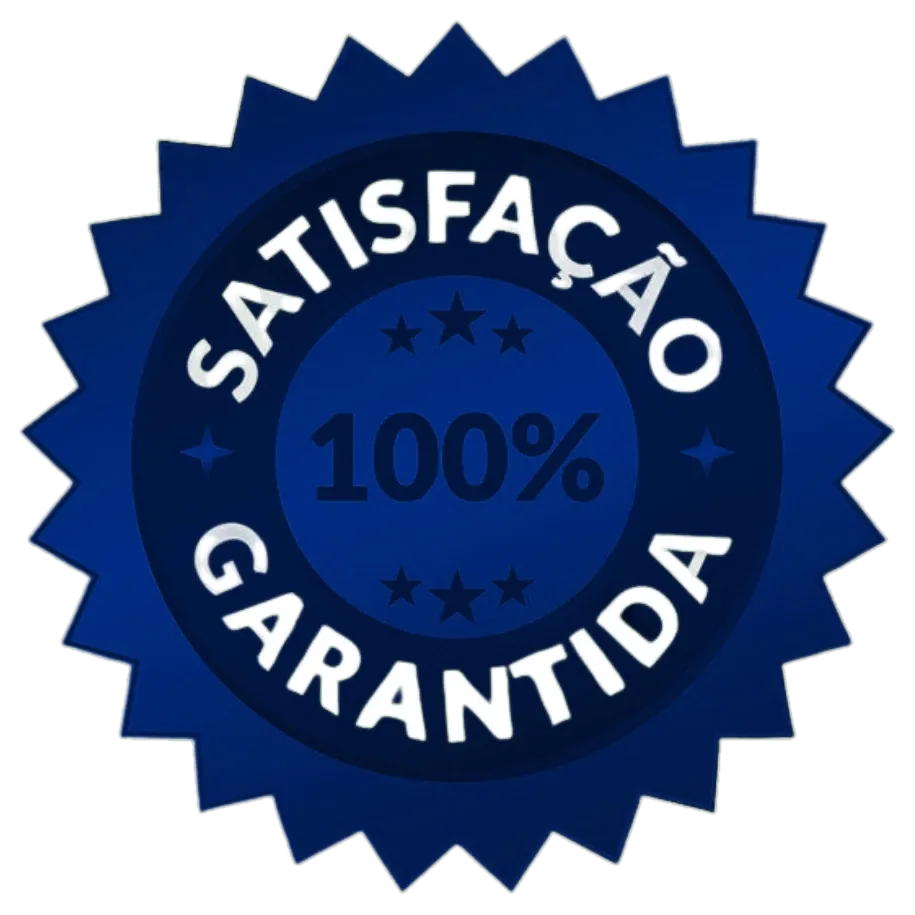
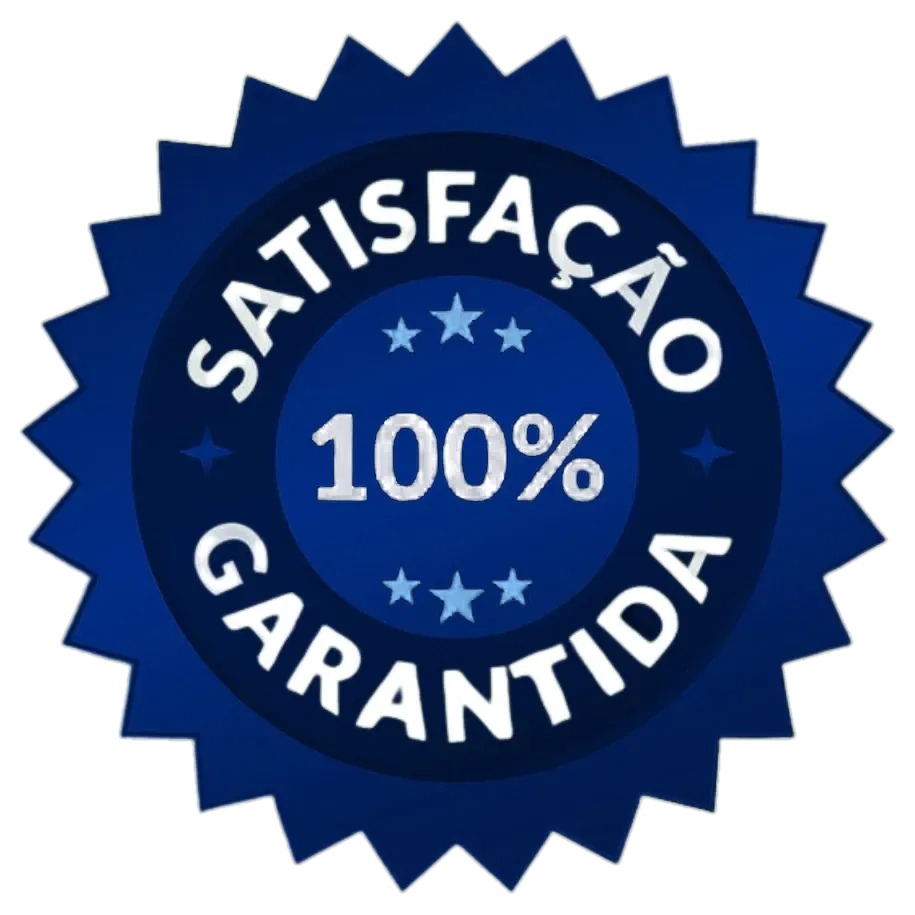
Corrige selo, borda de Ingredientes no desktop, eyebrow azul/branco por fundo, badge do hero
- Selo "Satisfação 100% Garantida": "100%" agora branco e as estrelinhas
  em azul claro, recolorido só dentro do disco interno (restrito por
  raio + posição, sem vazar para o anel com "SATISFAÇÃO"/"GARANTIDA").
  Corrige tentativa anterior que tinha vazado faixas retas pro anel.
- ingredientes-bg.png (versão desktop, restaurada ao tamanho original
  2048x676): tinha a mesma borda quase-branca de ~5px nas laterais e
  no topo que já tinha sido cortada da versão mobile — cortada agora
  também, resolvendo a marcação branca no canto esquerdo. Adicionado
  ?v=2 na URL pra evitar cache do navegador.
- .eyebrow (nome da seção + traço "::before"): fica azul escuro
  (--color-green-800) em seções de fundo branco/bege; branco nas
  seções de fundo azul (#produtos, .ingredients, .testimonials,
  .cta-final) — inclui o traço, que antes nunca tinha cor por seção.
  Removido o style inline do eyebrow do CTA final em favor da regra
  de classe.
- .hero__eyebrow (badge "Indústria Brasileira · Nutrição Premium"):
  texto cinza -> azul da barra clara do menu (--color-green-600).

Changed region(s): [[0.3366, 0.4284, 0.6732, 0.5508], [0.4284, 0.612, 0.5814, 0.6732], [0.4284, 0.306, 0.5814, 0.3978]]

diff --git a/css/style.css b/css/style.css
@@ -82,7 +82,7 @@ h4 {
   font-weight: 700;
   letter-spacing: 0.14em;
   text-transform: uppercase;
-  color: #545454;
+  color: var(--color-green-800);
   margin-bottom: var(--space-sm);
 }
 
@@ -90,7 +90,7 @@ h4 {
   content: "";
   width: 22px;
   height: 2px;
-  background: var(--color-orange-500);
+  background: var(--color-green-800);
   border-radius: var(--radius-pill);
 }
 
@@ -431,7 +431,7 @@ h4 {
   padding: 0.4rem 0.9rem 0.4rem 0.4rem;
   font-size: var(--fs-xs);
   font-weight: 700;
-  color: var(--color-brown-600);
+  color: var(--color-green-600);
   margin-bottom: var(--space-md);
 }
 
@@ -1007,7 +1007,11 @@ h4 {
 }
 
 #produtos .eyebrow {
-  color: var(--color-orange-400);
+  color: var(--color-white);
+}
+
+#produtos .eyebrow::before {
+  background: var(--color-white);
 }
 
 #produtos .section__title,
@@ -1312,7 +1316,11 @@ h4 {
 }
 
 .ingredients .eyebrow {
-  color: var(--color-orange-400);
+  color: var(--color-white);
+}
+
+.ingredients .eyebrow::before {
+  background: var(--color-white);
 }
 
 .ingredients .section__title,
@@ -1518,7 +1526,11 @@ h4 {
 }
 
 .testimonials .eyebrow {
-  color: var(--color-orange-400);
+  color: var(--color-white);
+}
+
+.testimonials .eyebrow::before {
+  background: var(--color-white);
 }
 
 .testimonials .section__title {

diff --git a/css/responsive.css b/css/responsive.css
@@ -182,7 +182,7 @@
      todo o ajuste feito nesta rodada era só para o mobile. */
   .ingredients {
     background-color: transparent;
-    background-image: url("../assets/images/ingredientes-bg.png");
+    background-image: url("../assets/images/ingredientes-bg.png?v=2");
     background-size: 100% 100%;
     background-position: center;
     padding-bottom: calc(var(--section-padding) + 9rem);

diff --git a/index.html b/index.html
@@ -1428,7 +1428,7 @@
       <svg class="cta-final__paw cta-final__paw--2" viewBox="0 0 24 24" aria-hidden="true"><use href="#icon-paw"></use></svg>
 
       <div class="container cta-final__inner">
-        <span class="eyebrow" style="color:var(--color-orange-400);">Vamos começar?</span>
+        <span class="eyebrow">Vamos começar?</span>
         <h2 class="section__title reveal" data-reveal="scale">Dê ao seu pet a nutrição que ele merece</h2>
         <p class="cta-final__text reveal" data-reveal="up">
           Fale com a nossa equipe, conheça a linha completa e descubra o ponto de venda Fargo mais próximo de você.